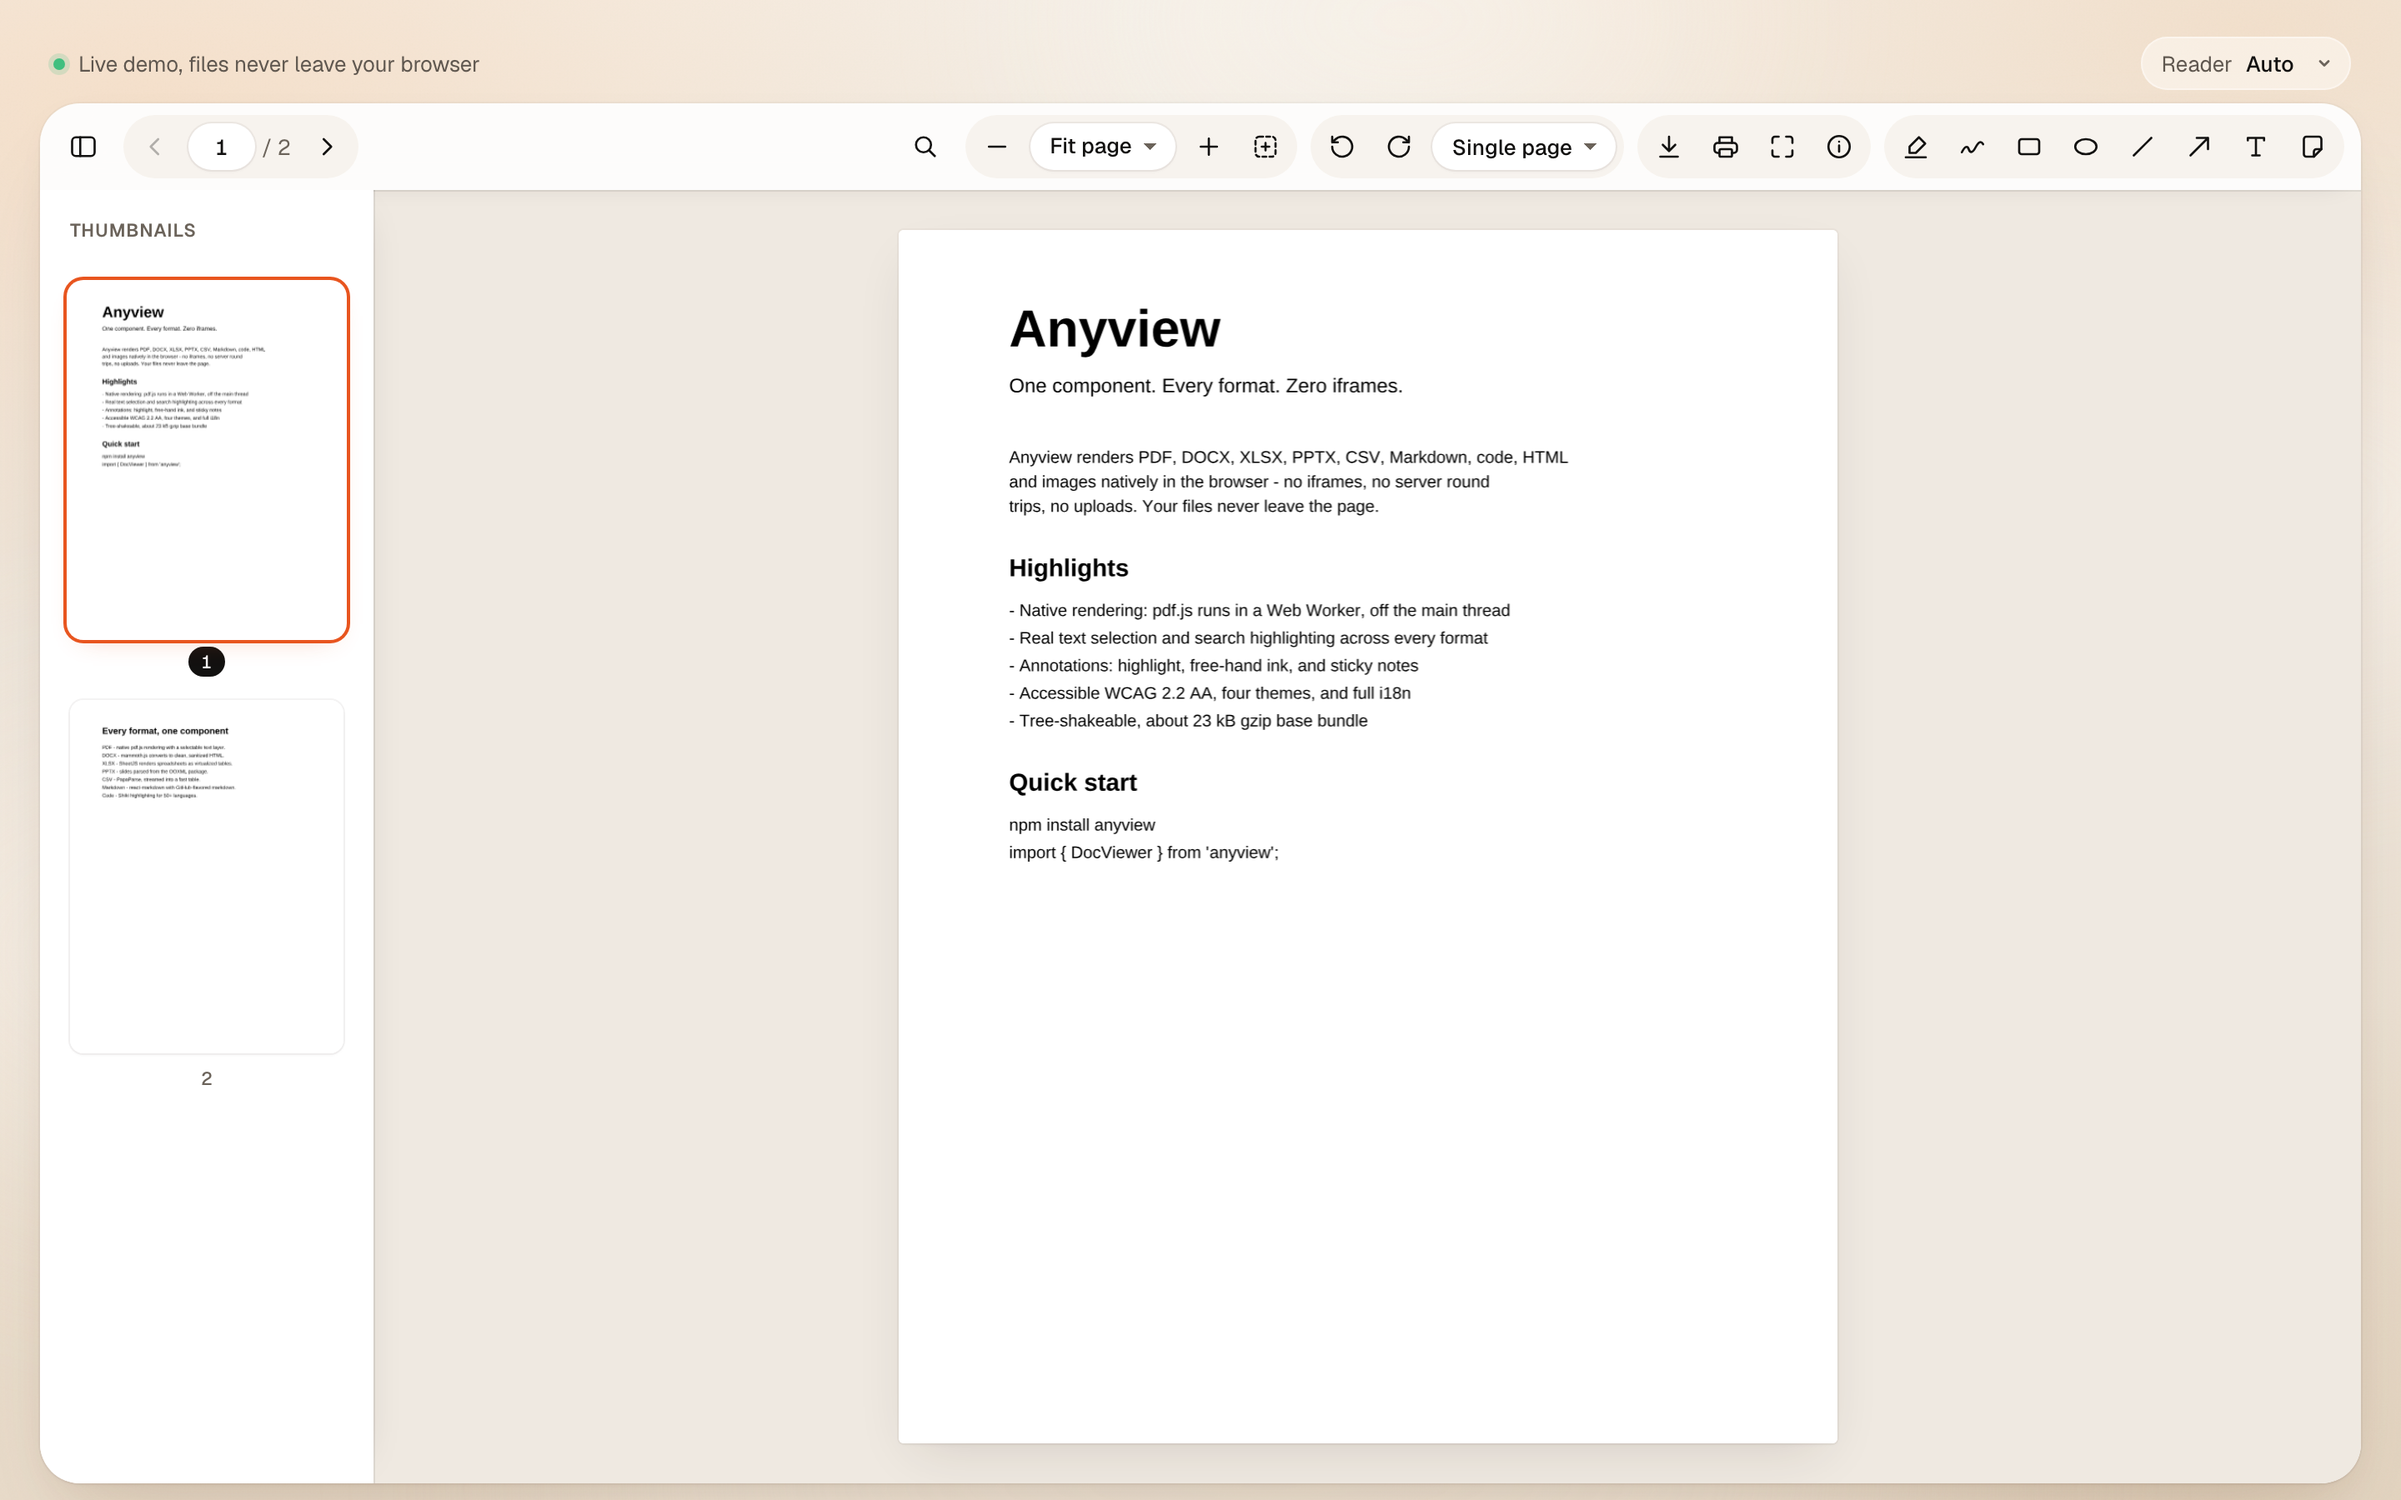
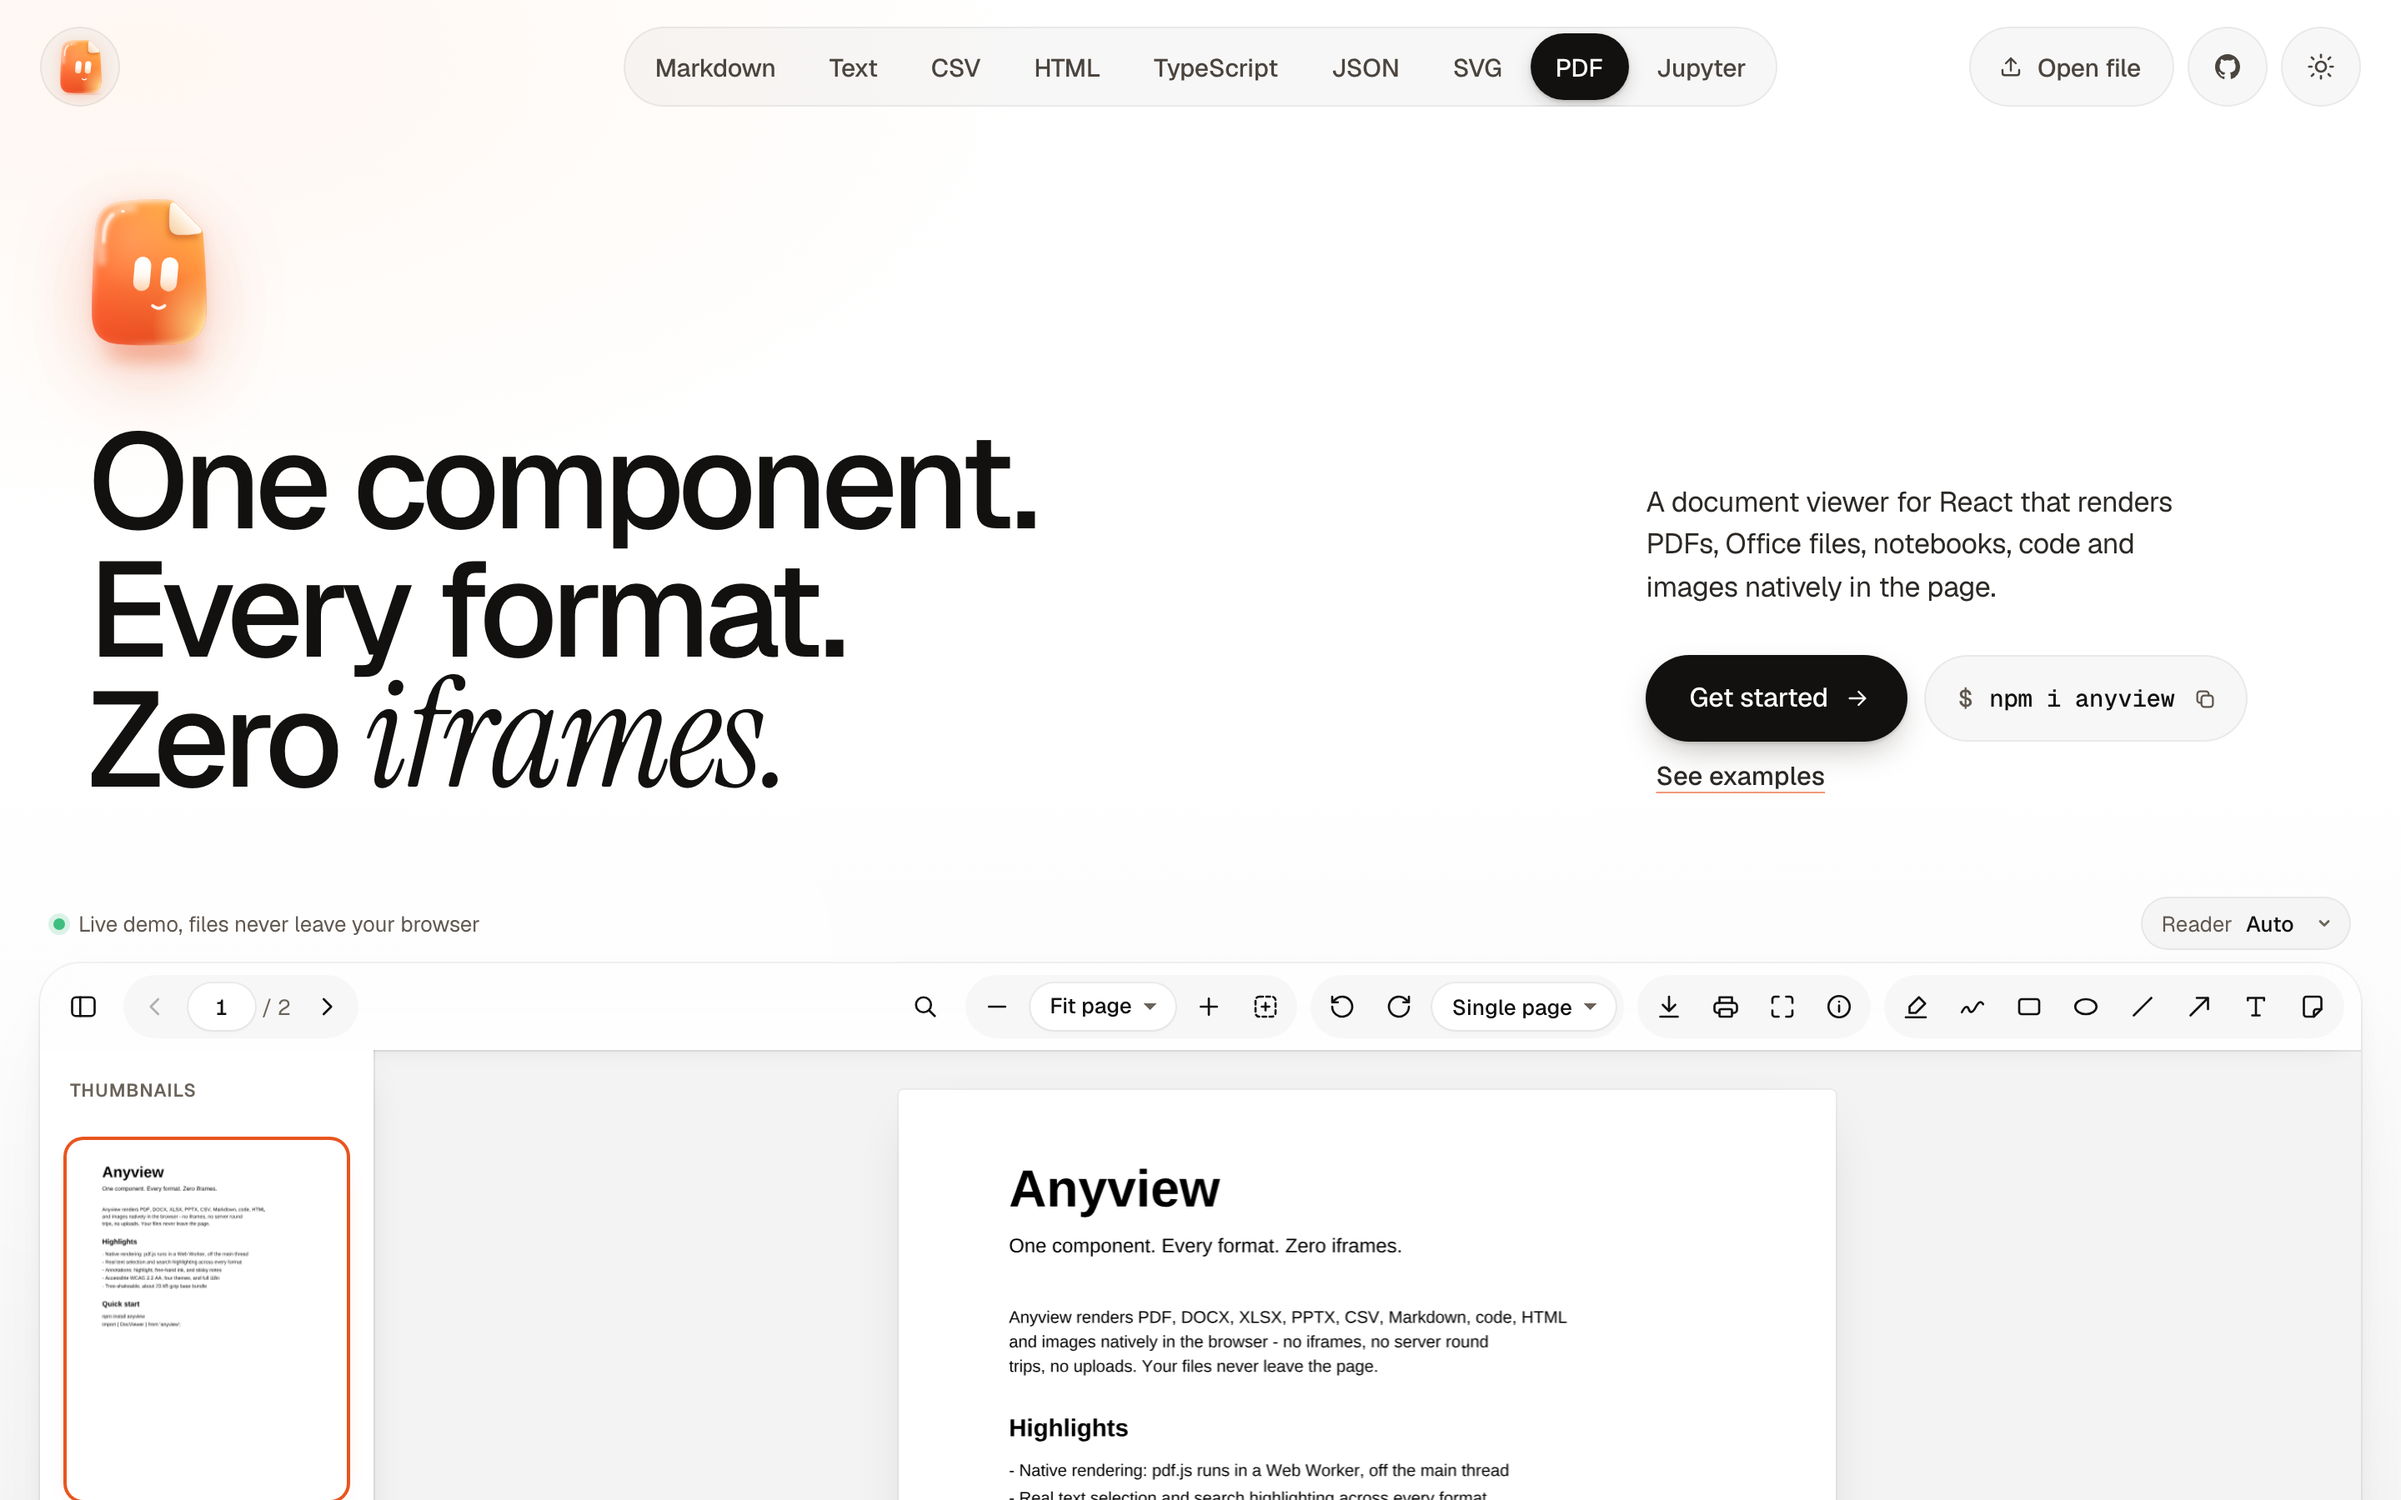
feat(site): white site and brand images
The site drops the sand haze for a clean white page with a faint accent
glow, frosted controls become light ink tints so they still read on
white, and card shadows go neutral. The README banner, social preview
and screenshot are re-rendered on white.

diff --git a/apps/playground/src/playground.css b/apps/playground/src/playground.css
@@ -1,38 +1,37 @@
 /* ============================================================
  * anyview: the site
- * A warm sand haze, floating white cards, black pills.
+ * Clean white, floating cards, black pills.
  * ============================================================ */
 
 :root {
-  /* Sand haze: top, middle, deep (the bottom of the page). */
-  --sky-1: #f4efe7;
-  --sky-2: #ede4d8;
-  --sky-3: #e8dccb;
-  --sky-4: #f8f4ee; /* warm cloud */
+  --sky-1: #ffffff;
+  --sky-2: #ffffff;
+  --sky-3: #f6f6f6;
+  --sky-4: #ffffff;
 
   --surface: #ffffff;
-  --surface-2: #f7f3ee;
+  --surface-2: #f5f5f5;
   --ink: #121110;
   --ink-2: #2b2825;
-  --muted: #5f574f; /* brand #6b635a, deepened to clear 4.5:1 on the deepest sand */
+  --muted: #5f574f;
   --hairline: rgb(18 17 16 / 0.08);
   --accent: #e8551f;
-  --accent-ink: #c2410c; /* accent text, and focus rings on the sand (3:1+) */
+  --accent-ink: #c2410c;
   --focus: var(--accent-ink);
 
-  --frost: rgb(255 253 250 / 0.5);
-  --frost-hover: rgb(255 253 250 / 0.7);
+  --frost: rgb(18 17 16 / 0.035);
+  --frost-hover: rgb(18 17 16 / 0.065);
   --frost-ink: #4a443e;
-  --frost-edge: inset 0 0 0 1px rgb(255 252 247 / 0.55);
+  --frost-edge: inset 0 0 0 1px rgb(18 17 16 / 0.06);
 
   --pill: #121110;
   --pill-ink: #ffffff;
 
   --card-shadow:
-    0 0 0 1px rgb(41 28 18 / 0.035),
-    0 1px 2px rgb(60 38 20 / 0.04),
-    0 8px 24px -6px rgb(92 58 28 / 0.09),
-    0 30px 60px -20px rgb(92 58 28 / 0.15);
+    0 0 0 1px rgb(0 0 0 / 0.05),
+    0 1px 2px rgb(0 0 0 / 0.04),
+    0 8px 24px -6px rgb(0 0 0 / 0.07),
+    0 30px 60px -20px rgb(0 0 0 / 0.1);
 
   --promo: #1c1917;
   --promo-ink: #f5f1ec;
@@ -124,7 +123,7 @@ body {
   outline-offset: 3px;
 }
 
-/* ---------- Sky (warm sand haze) ---------- */
+/* ---------- Sky ---------- */
 
 .pg-sky {
   position: fixed;
@@ -133,18 +132,14 @@ body {
   overflow: hidden;
   pointer-events: none;
   background:
-    radial-gradient(60% 50% at 6% 8%, rgb(246 205 168 / 0.42) 0%, transparent 70%),
-    radial-gradient(55% 45% at 94% 2%, rgb(240 214 188 / 0.6) 0%, transparent 70%),
-    radial-gradient(60% 45% at 50% 55%, var(--sky-4) 0%, transparent 72%),
-    radial-gradient(80% 50% at 85% 100%, #e2d3bf 0%, transparent 70%),
-    radial-gradient(70% 45% at 5% 95%, #e9dccb 0%, transparent 70%),
+    radial-gradient(55% 45% at 6% 4%, rgb(255 138 61 / 0.07) 0%, transparent 70%),
     linear-gradient(180deg, var(--sky-1) 0%, var(--sky-2) 50%, var(--sky-3) 100%);
 }
 
 .pg-cloud {
   position: absolute;
   border-radius: 50%;
-  background: #fffaf3;
+  background: #ffffff;
   filter: blur(70px);
   opacity: 0.55;
   will-change: transform;
@@ -152,7 +147,7 @@ body {
 
 .pg-cloud-1 { width: 46vw; height: 22vw; left: -8vw; top: 46vh; opacity: 0.42; animation: pg-drift 70s ease-in-out infinite alternate; }
 .pg-cloud-2 { width: 38vw; height: 16vw; right: -6vw; top: 22vh; opacity: 0.35; animation: pg-drift 90s ease-in-out -30s infinite alternate-reverse; }
-.pg-cloud-3 { width: 60vw; height: 20vw; left: 20vw; bottom: -10vw; opacity: 0.55; background: #f6efe5; animation: pg-drift 110s ease-in-out -50s infinite alternate; }
+.pg-cloud-3 { width: 60vw; height: 20vw; left: 20vw; bottom: -10vw; opacity: 0.55; background: #ffffff; animation: pg-drift 110s ease-in-out -50s infinite alternate; }
 .pg-cloud-4 { width: 26vw; height: 12vw; left: 40vw; top: -4vw; opacity: 0.3; animation: pg-drift 80s ease-in-out -10s infinite alternate-reverse; }
 
 .pg-stars { display: none; }
@@ -318,7 +313,7 @@ body {
   transition-timing-function: var(--ease);
 }
 
-.pg-sample-chip:hover { color: var(--ink); background: rgb(255 252 247 / 0.4); }
+.pg-sample-chip:hover { color: var(--ink); background: rgb(18 17 16 / 0.05); }
 :root[data-theme='dark'] .pg-sample-chip:hover { background: rgb(255 240 225 / 0.06); }
 .pg-sample-chip:active { scale: 0.96; }
 .pg-sample-chip[data-active='true'] { color: var(--pill-ink); background: transparent; }
@@ -756,7 +751,7 @@ body {
 .pg-btn-ghost-dark { background: var(--promo-btn); color: var(--promo-ink); }
 .pg-btn-ghost-dark:hover { background: color-mix(in srgb, var(--promo-btn) 80%, #fff); }
 .pg-btn-white { background: #fff; color: #121110; }
-.pg-btn-white:hover { background: #f1ebe3; }
+.pg-btn-white:hover { background: #f2f2f2; }
 .pg-btn-ghost-dark:active,
 .pg-btn-white:active { scale: 0.96; }
 
@@ -798,7 +793,7 @@ body {
   display: grid;
   place-items: center;
   padding: 28px;
-  background: rgb(237 228 216 / 0.45);
+  background: rgb(245 245 245 / 0.6);
   backdrop-filter: blur(14px);
   -webkit-backdrop-filter: blur(14px);
   pointer-events: none;

diff --git a/apps/playground/index.html b/apps/playground/index.html
@@ -3,7 +3,7 @@
   <head>
     <meta charset="UTF-8" />
     <meta name="viewport" content="width=device-width, initial-scale=1.0" />
-    <meta name="theme-color" content="#f4efe7" media="(prefers-color-scheme: light)" />
+    <meta name="theme-color" content="#ffffff" media="(prefers-color-scheme: light)" />
     <meta name="theme-color" content="#12100e" media="(prefers-color-scheme: dark)" />
     <title>anyview: one component, every format, zero iframes</title>
     <meta
@@ -46,7 +46,7 @@
     </script>
     <style>
       * { margin: 0; padding: 0; box-sizing: border-box; }
-      html { background: #f4efe7; }
+      html { background: #ffffff; }
       html[data-theme='dark'] { background: #12100e; }
     </style>
   </head>
